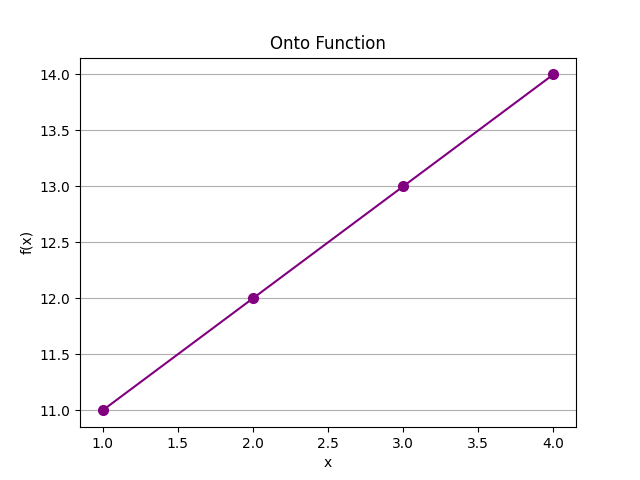
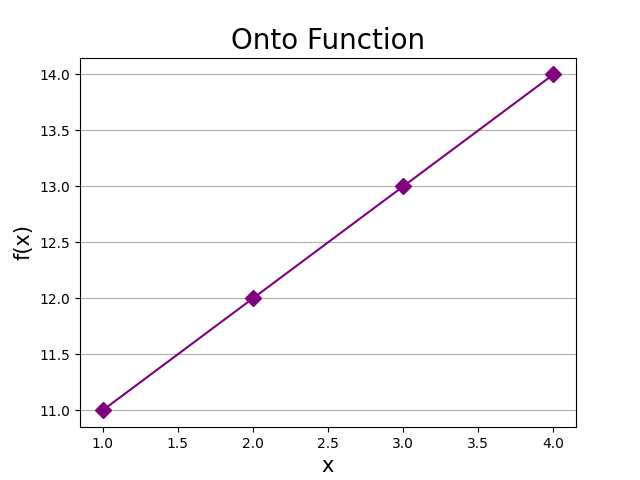
marker shape & size is transfigured

diff --git a/Onto.py b/Onto.py
@@ -21,7 +21,7 @@ def is_onto(func, dom, codom):
 def SurjectivePlot(func, dom, codom):
     x = np.array(dom)
     y = np.array([func(val) for val in dom])
-    plt.plot(x, y, marker='o', color='purple', ms='7')  
+    plt.plot(x, y, marker='D', color='purple', ms='8')  
     font1 = {'fontsize': 15}
     font2 = {'fontsize': 20}
     plt.xlabel('x', fontdict = font1)
